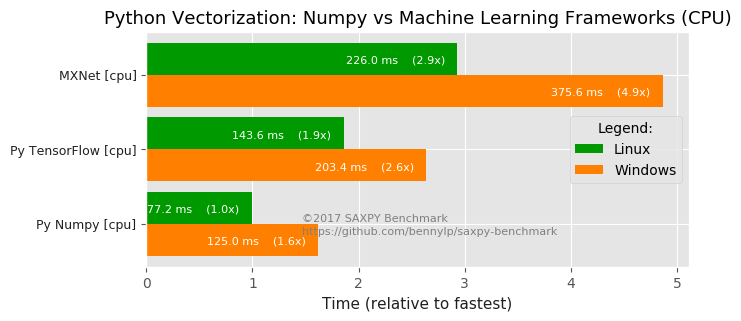
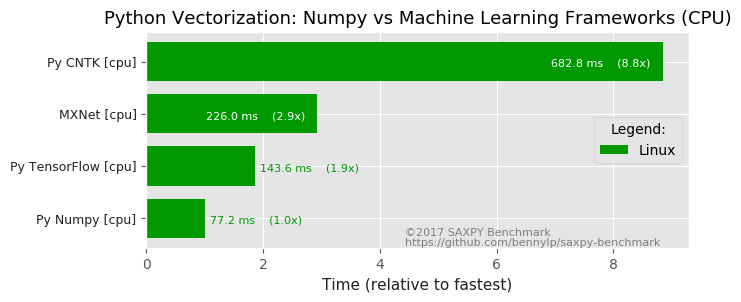
Added CNTK (Linux)

diff --git a/results/create_charts.py b/results/create_charts.py
@@ -36,7 +36,9 @@ known_columns = {
     'MXNet [cpu]': 'saxpy_mxnet.py',
     'MXNet [gpu]': 'saxpy_mxnet.py',
     'Julia (loop) [cpu]': 'saxpy_loop.jl',
-    'Julia (vec) [cpu]': 'saxpy_array.jl'
+    'Julia (vec) [cpu]': 'saxpy_array.jl',
+    'Py CNTK [gpu]': 'saxpy_cntk.py',
+    'Py CNTK [cpu]': 'saxpy_cntk.py'
 }
 
 
@@ -259,7 +261,7 @@ def create_front_page():
 
     doc = ""
     doc += "# SAXPY CPU and GPGPU Benchmarks\n\n"
-    doc += "Table of Contents:\n\n"
+    doc += "**Table of Contents**:\n\n"
     doc += "- [Benchmarks](#benchmarks)\n"
     for spec in chart_specs:
         doc += "   - [{}](#{})\n".format(spec['title'],
@@ -284,6 +286,12 @@ def create_front_page():
         png_file = "results/charts-en/" + spec['output']
         doc += '![{}]({}?raw=true "{}")\n\n'.format(png_file,
                                                     png_file, png_file)
+        if 'exclude' in spec:
+            doc += "**Excluded** from the charts:\n"
+            for col in spec.get('exclude', []):
+                doc += "- {} ([src/{}](src/{}))\n".format(col,
+                                                          known_columns[col], known_columns[col])
+            doc += "\n"
 
     doc += "\n\n"
     doc += "# Machine Specifications\n"

diff --git a/src/saxpy_cntk.py b/src/saxpy_cntk.py
@@ -1,0 +1,41 @@
+from __future__ import print_function
+
+import cntk
+import sys
+import time
+
+import numpy as np
+import saxpy
+
+if len(sys.argv) > 1:
+    if sys.argv[1] == "cpu":
+        dev = cntk.device.cpu()
+    elif sys.argv[1] == "gpu":
+        dev = cntk.device.gpu(0)
+    else:
+        print("Error: invalid device " + sys.argv[1])
+        sys.exit(1)
+    if not cntk.device.try_set_default_device(dev):
+        print("Error: error setting device")
+        sys.exit(1)
+else:
+    dev = None
+
+N = float(saxpy.N)
+YVAL = float(saxpy.YVAL)
+XVAL = float(saxpy.XVAL)
+AVAL = float(saxpy.AVAL)
+
+print("N: {}".format(N))
+
+a = cntk.Constant(value=AVAL, shape=[N], dtype=np.float32, device=dev, name="a")
+y = cntk.Parameter(shape=[N], init=YVAL, dtype=np.float32, device=dev, name="y")
+x = cntk.Parameter(shape=[N], init=XVAL, dtype=np.float32, device=dev, name="x")
+
+t0 = time.time()
+cntk.assign(y, y + a * x).eval()
+t1 = time.time()
+
+print("Elapsed: %.3f ms" % ((t1 - t0) * 1000))
+
+saxpy.verify(y.asarray())

diff --git a/README.md b/README.md
@@ -1,6 +1,6 @@
 # SAXPY CPU and GPGPU Benchmarks
 
-Table of Contents:
+**Table of Contents**:
 
 - [Benchmarks](#benchmarks)
    - [Python: Loop vs Numpy (CPU)](#python-loop-vs-numpy-cpu)
@@ -17,10 +17,12 @@ Table of Contents:
    - [OpenCL vs PyOpenCL (CPU & GPU)](#opencl-vs-pyopencl-cpu-gpu)
    - [PyCUDA vs C++ (GPU)](#pycuda-vs-c-gpu)
    - [Tensorflow: Python vs C++ (GPU)](#tensorflow-python-vs-c-gpu)
+   - [Linux Conclusion](#linux-conclusion)
+   - [Windows Conclusion](#windows-conclusion)
    - [Conclusion](#conclusion)
 - [Machine Specifications](#machine-specifications)
-   - [Ubuntu 16.04 + NVidia GTX 1080](#ubuntu-1604-nvidia-gtx-1080)
-   - [Windows 10 + NVidia GTX 1080](#windows-10-nvidia-gtx-1080)
+   - [Ubuntu 16.04, NVidia GTX 1080](#ubuntu-1604-nvidia-gtx-1080)
+   - [Windows 10, NVidia GTX 1080](#windows-10-nvidia-gtx-1080)
    - [MacBook Pro 13" late 2013, on board Intel Iris GPU](#macbook-pro-13-late-2013-on-board-intel-iris-gpu)
 
 
@@ -88,11 +90,14 @@ Comparison among different programming languages
 
 ## Python Vectorization: Numpy vs Machine Learning Frameworks (CPU)
 
-SAXPY array operation in Numpy vs machine learning frameworks such as Tensorflow and MXNet
+SAXPY array operation in Numpy vs machine learning frameworks such as Tensorflow, MXNet, and CNTK. Only tested on Linux.
+
+Note: CNTK result is way off, not sure why. Please have a look at the source code.
 
 - Py Numpy [cpu] ([src/saxpy_numpy.py](src/saxpy_numpy.py))
 - Py TensorFlow [cpu] ([src/saxpy_tf.py](src/saxpy_tf.py))
 - MXNet [cpu] ([src/saxpy_mxnet.py](src/saxpy_mxnet.py))
+- Py CNTK [cpu] ([src/saxpy_cntk.py](src/saxpy_cntk.py))
 
 ![results/charts-en/vectorized-numpy-vs-frameworks-cpu.png](results/charts-en/vectorized-numpy-vs-frameworks-cpu.png?raw=true "results/charts-en/vectorized-numpy-vs-frameworks-cpu.png")
 
@@ -105,6 +110,8 @@ Same as above, but compare on GPU as well
 - MXNet [cpu] ([src/saxpy_mxnet.py](src/saxpy_mxnet.py))
 - Py TensorFlow [gpu] ([src/saxpy_tf.py](src/saxpy_tf.py))
 - MXNet [gpu] ([src/saxpy_mxnet.py](src/saxpy_mxnet.py))
+- Py CNTK [gpu] ([src/saxpy_cntk.py](src/saxpy_cntk.py))
+- Py CNTK [cpu] ([src/saxpy_cntk.py](src/saxpy_cntk.py))
 
 ![results/charts-en/vectorized-numpy-vs-frameworks-gpu.png](results/charts-en/vectorized-numpy-vs-frameworks-gpu.png?raw=true "results/charts-en/vectorized-numpy-vs-frameworks-gpu.png")
 
@@ -114,6 +121,7 @@ Comparing frameworks running on GPU with naive C++ loop running on CPU.
 
 - Py TensorFlow [gpu] ([src/saxpy_tf.py](src/saxpy_tf.py))
 - MXNet [gpu] ([src/saxpy_mxnet.py](src/saxpy_mxnet.py))
+- Py CNTK [gpu] ([src/saxpy_cntk.py](src/saxpy_cntk.py))
 - C++ loop [cpu] ([src/saxpy_cpu.cpp](src/saxpy_cpu.cpp))
 
 ![results/charts-en/frameworks-gpu-vs-c++-cpu.png](results/charts-en/frameworks-gpu-vs-c++-cpu.png?raw=true "results/charts-en/frameworks-gpu-vs-c++-cpu.png")
@@ -169,16 +177,46 @@ Comparing Tensorflow C++ and Python performance
 
 ![results/charts-en/tensorflow-python-vs-c++.png](results/charts-en/tensorflow-python-vs-c++.png?raw=true "results/charts-en/tensorflow-python-vs-c++.png")
 
+## Linux Conclusion
+
+All results, excluding Python and R loops
+
+![results/charts-en/conclusion-linux.png](results/charts-en/conclusion-linux.png?raw=true "results/charts-en/conclusion-linux.png")
+
+**Excluded** from the charts:
+- Python loop [cpu] ([src/saxpy_loop.py](src/saxpy_loop.py))
+- R (loop) [cpu] ([src/saxpy_loop.R](src/saxpy_loop.R))
+
+## Windows Conclusion
+
+All results, excluding Python and R loops
+
+![results/charts-en/conclusion-windows.png](results/charts-en/conclusion-windows.png?raw=true "results/charts-en/conclusion-windows.png")
+
+**Excluded** from the charts:
+- Python loop [cpu] ([src/saxpy_loop.py](src/saxpy_loop.py))
+- R (loop) [cpu] ([src/saxpy_loop.R](src/saxpy_loop.R))
+- C++ TensorFlow [gpu] ([src/saxpy_tf.cc](src/saxpy_tf.cc))
+- Py CNTK [gpu] ([src/saxpy_cntk.py](src/saxpy_cntk.py))
+- Py CNTK [cpu] ([src/saxpy_cntk.py](src/saxpy_cntk.py))
+
 ## Conclusion
 
 All results, excluding Python and R loops
 
 ![results/charts-en/conclusion.png](results/charts-en/conclusion.png?raw=true "results/charts-en/conclusion.png")
 
+**Excluded** from the charts:
+- Python loop [cpu] ([src/saxpy_loop.py](src/saxpy_loop.py))
+- R (loop) [cpu] ([src/saxpy_loop.R](src/saxpy_loop.R))
+- C++ TensorFlow [gpu] ([src/saxpy_tf.cc](src/saxpy_tf.cc))
+- Py CNTK [gpu] ([src/saxpy_cntk.py](src/saxpy_cntk.py))
+- Py CNTK [cpu] ([src/saxpy_cntk.py](src/saxpy_cntk.py))
+
 
 
 # Machine Specifications
-## Ubuntu 16.04 + NVidia GTX 1080
+## Ubuntu 16.04, NVidia GTX 1080
 
 |    |    |
 |----|----|
@@ -199,7 +237,7 @@ All results, excluding Python and R loops
 | R | version 3.2.3 64bit |
 | MXNet | mxnet-cu90 (0.12.1) |
 
-## Windows 10 + NVidia GTX 1080
+## Windows 10, NVidia GTX 1080
 
 |    |    |
 |----|----|

diff --git a/results/README.md b/results/README.md
@@ -22,6 +22,8 @@ some statistics with them in the future:
 - MXNet [cpu]
 - MXNet [gpu]
 - Octave [cpu]
+- Py CNTK [cpu]
+- Py CNTK [gpu]
 - Py Numpy [cpu]
 - Py Pandas [cpu]
 - Py TensorFlow [cpu]
@@ -38,7 +40,7 @@ some statistics with them in the future:
 
 
 
-# Ubuntu 16.04 + NVidia GTX 1080
+# Ubuntu 16.04, NVidia GTX 1080
 
 Submitted by Benny Prijono on 2017-11-21
 
@@ -75,6 +77,8 @@ Same machine as Windows (dual-boot)
 | Python loop [cpu] | 11934.702 | 178.077 | 3571.96x |
 | R (matrix) [cpu] | 1625.473 | 1.413 | 486.49x |
 | R (data.table) [cpu] | 706.059 | 4.114 | 211.32x |
+| Py CNTK [cpu] | 682.768 | 0.965 | 204.35x |
+| Py CNTK [gpu] | 406.687 | 1.101 | 121.72x |
 | Py Pandas [cpu] | 297.991 | 0.627 | 89.19x |
 | MXNet [cpu] | 226.005 | 1.247 | 67.64x |
 | Octave [cpu] | 217.682 | 0.993 | 65.15x |
@@ -109,6 +113,8 @@ Same machine as Windows (dual-boot)
 - **outlier "Python loop [cpu]" is removed from the chart because it is 3571x slower**
 - **outlier "R (matrix) [cpu]" is removed from the chart because it is 486x slower**
 - **outlier "R (data.table) [cpu]" is removed from the chart because it is 211x slower**
+- **outlier "Py CNTK [cpu]" is removed from the chart because it is 204x slower**
+- **outlier "Py CNTK [gpu]" is removed from the chart because it is 121x slower**
 - **outlier "Py Pandas [cpu]" is removed from the chart because it is 89x slower**
 - **outlier "MXNet [cpu]" is removed from the chart because it is 67x slower**
 - **outlier "Octave [cpu]" is removed from the chart because it is 65x slower**
@@ -124,7 +130,7 @@ Same machine as Windows (dual-boot)
 
 
 
-# Windows 10 + NVidia GTX 1080
+# Windows 10, NVidia GTX 1080
 
 Submitted by Benny Prijono on 2017-11-14
 
